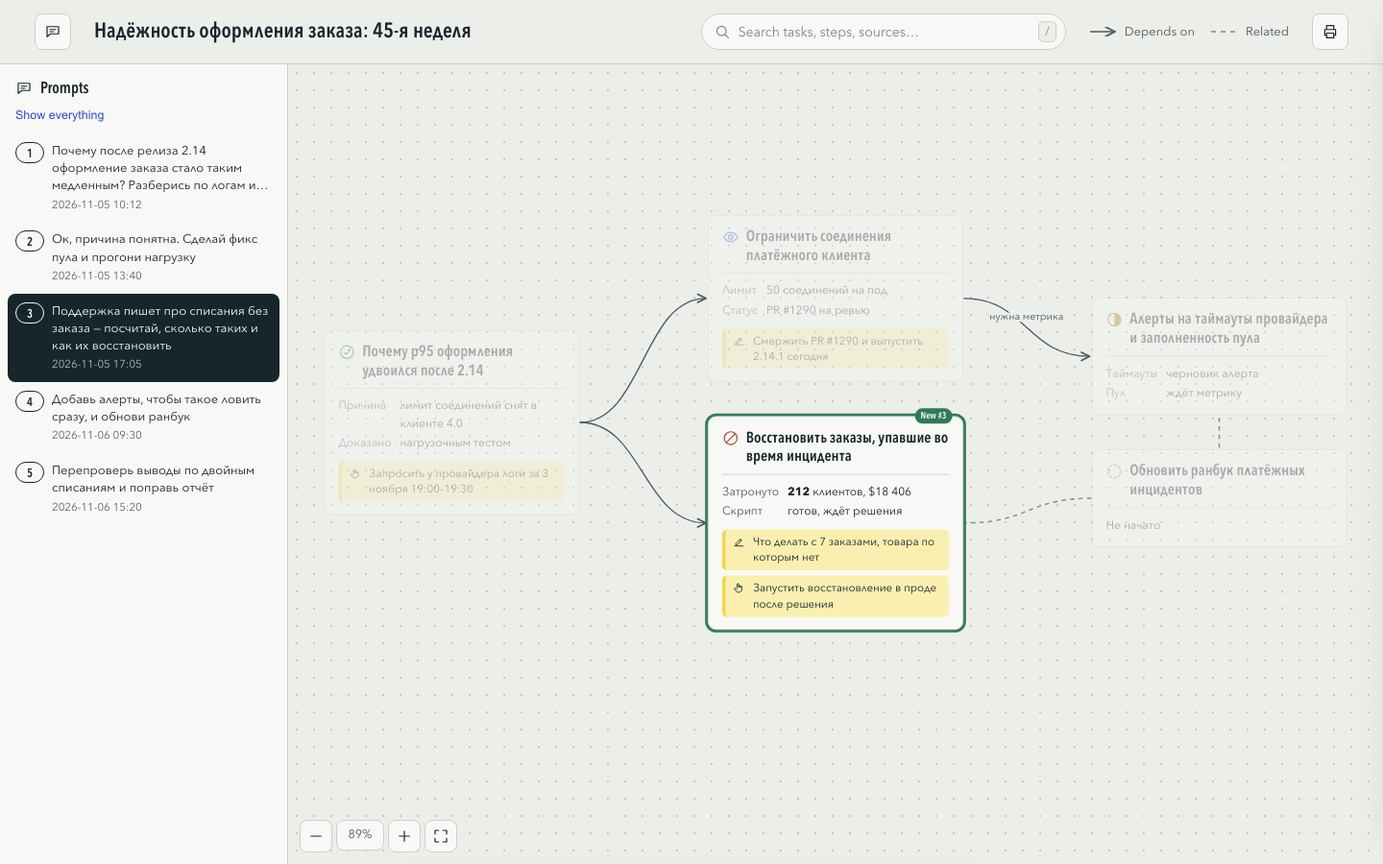
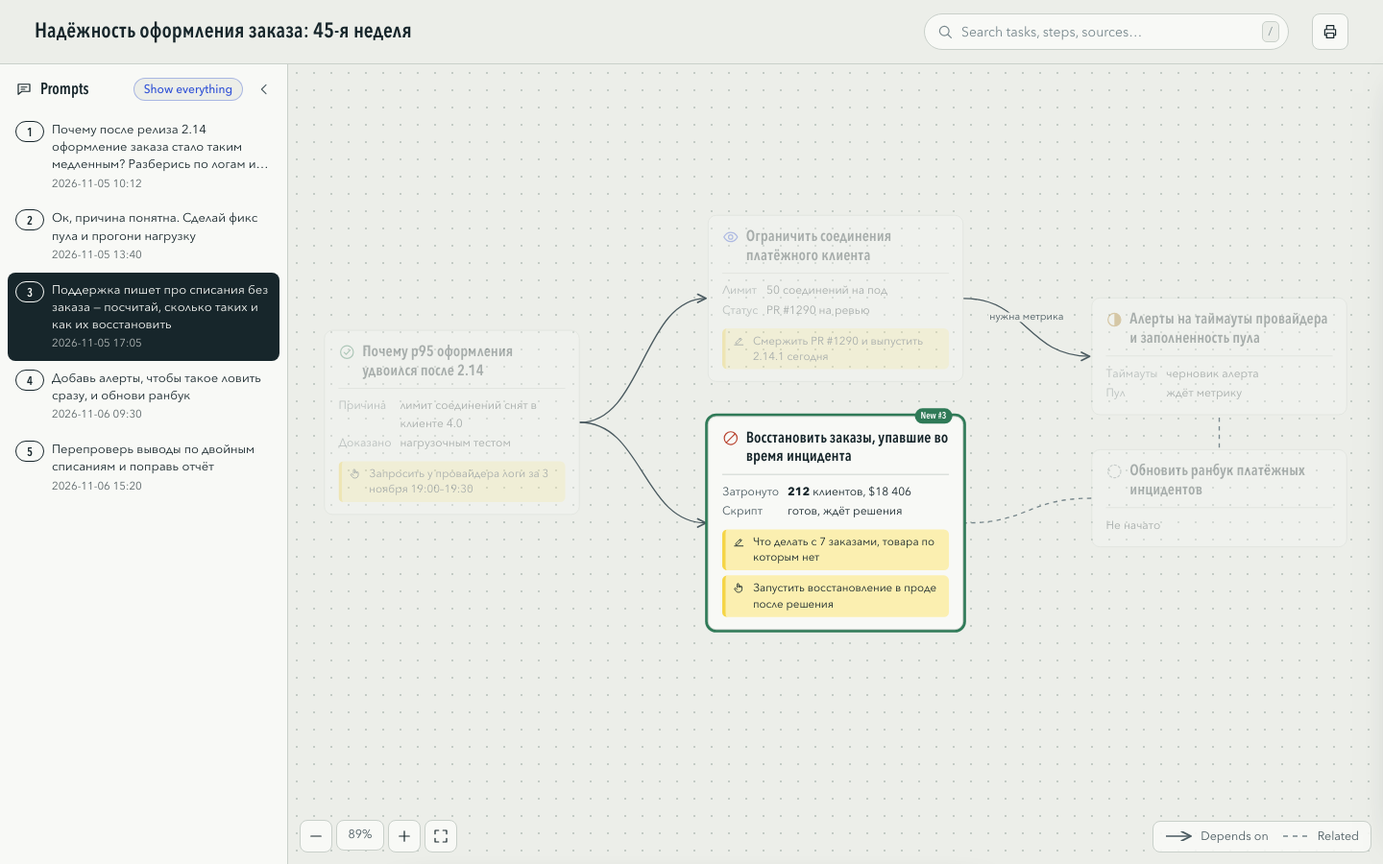
Tidy prompts rail and legend
Show everything sits next to the Prompts title; the rail collapses from its
header and reopens from a tab on the canvas; the edge legend moves onto the
canvas corner.

diff --git a/skills/structured-report/examples/example.ru.html b/skills/structured-report/examples/example.ru.html
@@ -77,7 +77,9 @@ body.map-page{height:100vh;overflow:hidden;display:flex;flex-direction:column}
 .bar{position:relative;z-index:20}
 .bar{display:flex;align-items:center;gap:24px;padding:14px clamp(16px,3vw,36px);border-bottom:1px solid var(--rule)}
 .bar h1{font:600 22px/1.15 var(--display);margin:0;flex:1 1 0;min-width:0;overflow:hidden;text-overflow:ellipsis;white-space:nowrap}
-.legend{display:flex;gap:16px;color:var(--ink-2);font-size:13px;align-items:center}
+.legend{position:absolute;right:12px;bottom:12px;z-index:2;display:flex;gap:14px;align-items:center;color:var(--ink-2);font-size:12.5px;
+  padding:6px 12px;border-radius:8px;background:rgba(248,249,246,.88);border:1px solid var(--rule);pointer-events:none}
+#map .minimap{bottom:52px}
 .legend span{display:inline-flex;align-items:center;gap:7px}
 .legend svg.line{width:30px;height:10px}
 #map{flex:1;min-width:0}
@@ -125,8 +127,18 @@ body.map-page{height:100vh;overflow:hidden;display:flex;flex-direction:column}
 /* ── prompts rail: the conversation that produced the report ── */
 .page{flex:1;display:flex;min-height:0}
 .rail{width:300px;flex:none;border-right:1px solid var(--rule);display:flex;flex-direction:column;background:var(--panel);transition:margin-left .25s cubic-bezier(.2,.7,.2,1)}
-.rail.closed{margin-left:-300px}
-.rail h2{font:600 16px var(--display);margin:0;padding:14px 16px 10px;display:flex;align-items:center;gap:8px}
+.rail.closed{margin-left:-301px}
+.rail-head{display:flex;align-items:center;gap:8px;padding:12px 10px 10px 16px}
+.rail h2{font:600 16px var(--display);margin:0;display:flex;align-items:center;gap:8px;flex:1}
+.rail-x{all:unset;cursor:pointer;width:28px;height:28px;display:grid;place-items:center;border-radius:7px;color:var(--ink-2)}
+.rail-x:hover{background:var(--panel-2);color:var(--ink)} .rail-x:focus-visible{outline:2px solid var(--cobalt)}
+.rail-x .icon{width:16px;height:16px}
+.rail-tab{position:absolute;left:12px;top:12px;z-index:3;display:none;align-items:center;gap:7px;cursor:pointer;font:500 13px var(--text);color:var(--ink);
+  padding:6px 8px 6px 10px;border-radius:9px;background:var(--panel);border:1px solid var(--rule);box-shadow:0 6px 16px -12px rgba(23,38,43,.6)}
+.rail-tab:hover{border-color:var(--ink-3)} .rail-tab:focus-visible{outline:2px solid var(--cobalt)}
+.rail-tab .icon{width:16px;height:16px}
+.rail-tab .cnt{font:600 11px/18px var(--display);min-width:20px;padding:0 6px;border-radius:9px;background:var(--ink);color:var(--panel);text-align:center}
+.rail.closed + #map .rail-tab{display:inline-flex}
 .rail ol{list-style:none;margin:0;padding:0 8px 16px;overflow:auto;flex:1}
 .rail li button{all:unset;box-sizing:border-box;cursor:pointer;display:grid;grid-template-columns:30px 1fr;gap:8px;width:100%;padding:9px 8px;border-radius:8px}
 .rail li button:hover{background:var(--panel-2)}
@@ -135,7 +147,8 @@ body.map-page{height:100vh;overflow:hidden;display:flex;flex-direction:column}
 .rail .pt{font-size:13px;line-height:1.4;display:-webkit-box;-webkit-line-clamp:3;-webkit-box-orient:vertical;overflow:hidden}
 .rail .pa{font-size:11.5px;opacity:.7;margin-top:2px;display:flex;gap:6px;align-items:center}
 .rail .pa .icon{width:13px;height:13px}
-.rail .clear{margin:0 16px 12px;font-size:12.5px;color:var(--cobalt);background:none;border:0;cursor:pointer;text-align:left;padding:0}
+.rail .clear{font:500 12px var(--text);color:var(--cobalt);background:var(--paper);border:1px solid rgba(45,79,214,.35);border-radius:999px;cursor:pointer;padding:3px 10px;white-space:nowrap}
+.rail .clear:hover{background:#fff;border-color:var(--cobalt)}
 .rail .clear[hidden]{display:none}
 /* prompt focus: what appeared / changed at the selected prompt */
 body.at-prompt #map .node:not(.p-new):not(.p-changed),body.at-prompt .stage:not(.p-new):not(.p-changed){opacity:.32}
@@ -290,11 +303,11 @@ a.ref-chip:hover{border-color:var(--cobalt);color:var(--cobalt)}
 .copy:focus-visible{outline:2px solid var(--cobalt)}
 
 .reports{display:none}
-@media (max-width:760px){.rail{position:absolute;z-index:30;height:calc(100% - 66px)} .search{flex-basis:200px} .search:focus-within{flex-basis:100%} .legend span{display:none} .report{padding:0 16px 48px} .r-head{padding-right:120px} .flow .canvas{height:380px}}
+@media (max-width:760px){.legend{display:none} .rail{position:absolute;z-index:30;height:calc(100% - 66px)} .search{flex-basis:200px} .search:focus-within{flex-basis:100%} .legend span{display:none} .report{padding:0 16px 48px} .r-head{padding-right:120px} .flow .canvas{height:380px}}
 @media (prefers-reduced-motion:reduce){*{transition:none!important}}
 @media print{
   body.map-page{height:auto;overflow:visible;display:block;background:#fff}
-  #map,.legend,.drawer,.scrim,#print-btn,.zoom,.minimap,.search,.rail,.sendbar,.answer,#rail-btn{display:none!important}
+  #map,.drawer,.scrim,#print-btn,.zoom,.minimap,.search,.rail,.sendbar,.answer{display:none!important}
   .reports{display:block!important}
   .reports .report{break-before:page;padding:0}
   .reports .r-head{position:static;padding-right:0}
@@ -351,7 +364,6 @@ a.ref-chip:hover{border-color:var(--cobalt);color:var(--cobalt)}
 
 <!-- ═══ Page 1 — Work map ═══════════════════════════════════════════════════ -->
 <header class="bar">
-  <button class="iconbtn" id="rail-btn" title="Prompts of the session" aria-label="Prompts of the session" aria-expanded="true"><svg class="icon"><use href="#i-prompts"/></svg></button>
   <h1>Надёжность оформления заказа: 45-я неделя</h1>
   <div class="search" role="search">
     <svg class="icon"><use href="#i-search"/></svg>
@@ -359,18 +371,16 @@ a.ref-chip:hover{border-color:var(--cobalt);color:var(--cobalt)}
     <kbd>/</kbd>
     <div class="results" id="results" role="listbox" aria-label="Search results"></div>
   </div>
-  <div class="legend">
-    <span><svg class="line" viewBox="0 0 30 10"><path d="M1 5h26" stroke="#4A5A60" stroke-width="1.5" marker-end="url(#arrow)"/></svg>Depends on</span>
-    <span><svg class="line" viewBox="0 0 30 10"><path d="M1 5h28" stroke="#77878C" stroke-width="1.5" stroke-dasharray="5 5"/></svg>Related</span>
-    
-  </div>
   <button class="iconbtn" id="print-btn" title="Print all tasks" aria-label="Print all tasks"><svg class="icon"><use href="#i-print"/></svg></button>
 </header>
 
 <div class="page">
 <aside class="rail" id="rail" aria-label="Prompts of the session">
-  <h2><svg class="icon"><use href="#i-prompts"/></svg>Prompts</h2>
-  <button class="clear" id="rail-clear" hidden>Show everything</button>
+  <div class="rail-head">
+    <h2><svg class="icon"><use href="#i-prompts"/></svg>Prompts</h2>
+    <button class="clear" id="rail-clear" hidden title="Clear the prompt filter">Show everything</button>
+    <button class="rail-x" id="rail-close" title="Hide prompts" aria-label="Hide prompts" aria-controls="rail"><svg class="icon"><use href="#i-prev"/></svg></button>
+  </div>
   <ol>
     <li><button type="button" data-prompt="p1" aria-pressed="false"><span class="pn">1</span><span><span class="pt">Почему после релиза 2.14 оформление заказа стало таким медленным? Разберись по логам и метрикам</span><span class="pa">2026-11-05 10:12</span></span></button></li>
     <li><button type="button" data-prompt="p2" aria-pressed="false"><span class="pn">2</span><span><span class="pt">Ок, причина понятна. Сделай фикс пула и прогони нагрузку</span><span class="pa">2026-11-05 13:40</span></span></button></li>
@@ -380,6 +390,12 @@ a.ref-chip:hover{border-color:var(--cobalt);color:var(--cobalt)}
   </ol>
 </aside>
 <main class="canvas" id="map" aria-label="Work map" data-dir="LR">
+  <button class="rail-tab" id="rail-open" type="button" aria-controls="rail" aria-expanded="true"><svg class="icon"><use href="#i-prompts"/></svg>Prompts<span class="cnt">5</span></button>
+  <div class="legend" aria-label="Legend">
+    <span><svg class="line" viewBox="0 0 30 10"><path d="M1 5h26" stroke="#4A5A60" stroke-width="1.5" marker-end="url(#arrow)"/></svg>Depends on</span>
+    <span><svg class="line" viewBox="0 0 30 10"><path d="M1 5h28" stroke="#77878C" stroke-width="1.5" stroke-dasharray="5 5"/></svg>Related</span>
+    
+  </div>
   <div class="graph" data-key="map" data-edges="[{&quot;from&quot;: &quot;latency&quot;, &quot;to&quot;: &quot;pool&quot;, &quot;kind&quot;: &quot;depends&quot;, &quot;label&quot;: null}, {&quot;from&quot;: &quot;latency&quot;, &quot;to&quot;: &quot;replay&quot;, &quot;kind&quot;: &quot;depends&quot;, &quot;label&quot;: null}, {&quot;from&quot;: &quot;pool&quot;, &quot;to&quot;: &quot;alerts&quot;, &quot;kind&quot;: &quot;depends&quot;, &quot;label&quot;: &quot;нужна метрика&quot;}, {&quot;from&quot;: &quot;runbook&quot;, &quot;to&quot;: &quot;replay&quot;, &quot;kind&quot;: &quot;related&quot;, &quot;label&quot;: null}, {&quot;from&quot;: &quot;runbook&quot;, &quot;to&quot;: &quot;alerts&quot;, &quot;kind&quot;: &quot;related&quot;, &quot;label&quot;: null}]">
     
     <button class="node" type="button" data-id="latency" data-task="latency" data-block="latency" aria-label="Почему p95 оформления удвоился после 2.14 — Done">
@@ -2354,9 +2370,14 @@ document.addEventListener("click", e => {
   if (gp) { if (rail?.classList.contains("closed")) toggleRail(); if (atPrompt !== gp.dataset.goprompt) selectPrompt(gp.dataset.goprompt);
     $(`[data-prompt="${gp.dataset.goprompt}"]`)?.scrollIntoView({block: "nearest"}); return; }
   if (e.target.closest("#rail-clear")) return selectPrompt(atPrompt);
-  if (e.target.closest("#rail-btn")) toggleRail();
+  if (e.target.closest("#rail-close,#rail-open")) toggleRail(e.detail === 0);
 });
-function toggleRail() { rail.classList.toggle("closed"); $("#rail-btn").setAttribute("aria-expanded", String(!rail.classList.contains("closed"))); setTimeout(() => mapCanvas.apply(), 280); }
+function toggleRail(byKeyboard) {
+  const closed = rail.classList.toggle("closed");
+  $("#rail-open").setAttribute("aria-expanded", String(!closed));
+  if (byKeyboard) (closed ? $("#rail-open") : $("#rail-close")).focus({preventScroll: true});
+  setTimeout(() => mapCanvas.apply(), 280);
+}
 const _open = open;
 open = function (key, o) { _open(key, o); const a = art(key); if (a) { stamps(a); paint(a); } };
 

diff --git a/skills/structured-report/assets/template.html b/skills/structured-report/assets/template.html
@@ -77,7 +77,9 @@ body.map-page{height:100vh;overflow:hidden;display:flex;flex-direction:column}
 .bar{position:relative;z-index:20}
 .bar{display:flex;align-items:center;gap:24px;padding:14px clamp(16px,3vw,36px);border-bottom:1px solid var(--rule)}
 .bar h1{font:600 22px/1.15 var(--display);margin:0;flex:1 1 0;min-width:0;overflow:hidden;text-overflow:ellipsis;white-space:nowrap}
-.legend{display:flex;gap:16px;color:var(--ink-2);font-size:13px;align-items:center}
+.legend{position:absolute;right:12px;bottom:12px;z-index:2;display:flex;gap:14px;align-items:center;color:var(--ink-2);font-size:12.5px;
+  padding:6px 12px;border-radius:8px;background:rgba(248,249,246,.88);border:1px solid var(--rule);pointer-events:none}
+#map .minimap{bottom:52px}
 .legend span{display:inline-flex;align-items:center;gap:7px}
 .legend svg.line{width:30px;height:10px}
 #map{flex:1;min-width:0}
@@ -125,8 +127,18 @@ body.map-page{height:100vh;overflow:hidden;display:flex;flex-direction:column}
 /* ── prompts rail: the conversation that produced the report ── */
 .page{flex:1;display:flex;min-height:0}
 .rail{width:300px;flex:none;border-right:1px solid var(--rule);display:flex;flex-direction:column;background:var(--panel);transition:margin-left .25s cubic-bezier(.2,.7,.2,1)}
-.rail.closed{margin-left:-300px}
-.rail h2{font:600 16px var(--display);margin:0;padding:14px 16px 10px;display:flex;align-items:center;gap:8px}
+.rail.closed{margin-left:-301px}
+.rail-head{display:flex;align-items:center;gap:8px;padding:12px 10px 10px 16px}
+.rail h2{font:600 16px var(--display);margin:0;display:flex;align-items:center;gap:8px;flex:1}
+.rail-x{all:unset;cursor:pointer;width:28px;height:28px;display:grid;place-items:center;border-radius:7px;color:var(--ink-2)}
+.rail-x:hover{background:var(--panel-2);color:var(--ink)} .rail-x:focus-visible{outline:2px solid var(--cobalt)}
+.rail-x .icon{width:16px;height:16px}
+.rail-tab{position:absolute;left:12px;top:12px;z-index:3;display:none;align-items:center;gap:7px;cursor:pointer;font:500 13px var(--text);color:var(--ink);
+  padding:6px 8px 6px 10px;border-radius:9px;background:var(--panel);border:1px solid var(--rule);box-shadow:0 6px 16px -12px rgba(23,38,43,.6)}
+.rail-tab:hover{border-color:var(--ink-3)} .rail-tab:focus-visible{outline:2px solid var(--cobalt)}
+.rail-tab .icon{width:16px;height:16px}
+.rail-tab .cnt{font:600 11px/18px var(--display);min-width:20px;padding:0 6px;border-radius:9px;background:var(--ink);color:var(--panel);text-align:center}
+.rail.closed + #map .rail-tab{display:inline-flex}
 .rail ol{list-style:none;margin:0;padding:0 8px 16px;overflow:auto;flex:1}
 .rail li button{all:unset;box-sizing:border-box;cursor:pointer;display:grid;grid-template-columns:30px 1fr;gap:8px;width:100%;padding:9px 8px;border-radius:8px}
 .rail li button:hover{background:var(--panel-2)}
@@ -135,7 +147,8 @@ body.map-page{height:100vh;overflow:hidden;display:flex;flex-direction:column}
 .rail .pt{font-size:13px;line-height:1.4;display:-webkit-box;-webkit-line-clamp:3;-webkit-box-orient:vertical;overflow:hidden}
 .rail .pa{font-size:11.5px;opacity:.7;margin-top:2px;display:flex;gap:6px;align-items:center}
 .rail .pa .icon{width:13px;height:13px}
-.rail .clear{margin:0 16px 12px;font-size:12.5px;color:var(--cobalt);background:none;border:0;cursor:pointer;text-align:left;padding:0}
+.rail .clear{font:500 12px var(--text);color:var(--cobalt);background:var(--paper);border:1px solid rgba(45,79,214,.35);border-radius:999px;cursor:pointer;padding:3px 10px;white-space:nowrap}
+.rail .clear:hover{background:#fff;border-color:var(--cobalt)}
 .rail .clear[hidden]{display:none}
 /* prompt focus: what appeared / changed at the selected prompt */
 body.at-prompt #map .node:not(.p-new):not(.p-changed),body.at-prompt .stage:not(.p-new):not(.p-changed){opacity:.32}
@@ -290,11 +303,11 @@ a.ref-chip:hover{border-color:var(--cobalt);color:var(--cobalt)}
 .copy:focus-visible{outline:2px solid var(--cobalt)}
 
 .reports{display:none}
-@media (max-width:760px){.rail{position:absolute;z-index:30;height:calc(100% - 66px)} .search{flex-basis:200px} .search:focus-within{flex-basis:100%} .legend span{display:none} .report{padding:0 16px 48px} .r-head{padding-right:120px} .flow .canvas{height:380px}}
+@media (max-width:760px){.legend{display:none} .rail{position:absolute;z-index:30;height:calc(100% - 66px)} .search{flex-basis:200px} .search:focus-within{flex-basis:100%} .legend span{display:none} .report{padding:0 16px 48px} .r-head{padding-right:120px} .flow .canvas{height:380px}}
 @media (prefers-reduced-motion:reduce){*{transition:none!important}}
 @media print{
   body.map-page{height:auto;overflow:visible;display:block;background:#fff}
-  #map,.legend,.drawer,.scrim,#print-btn,.zoom,.minimap,.search,.rail,.sendbar,.answer,#rail-btn{display:none!important}
+  #map,.drawer,.scrim,#print-btn,.zoom,.minimap,.search,.rail,.sendbar,.answer{display:none!important}
   .reports{display:block!important}
   .reports .report{break-before:page;padding:0}
   .reports .r-head{position:static;padding-right:0}
@@ -351,7 +364,6 @@ a.ref-chip:hover{border-color:var(--cobalt);color:var(--cobalt)}
 
 <!-- ═══ Page 1 — Work map ═══════════════════════════════════════════════════ -->
 <header class="bar">
-  {{#prompts?}}<button class="iconbtn" id="rail-btn" title="Prompts of the session" aria-label="Prompts of the session" aria-expanded="true"><svg class="icon"><use href="#i-prompts"/></svg></button>{{/prompts?}}
   <h1>{{meta.title}}</h1>
   <div class="search" role="search">
     <svg class="icon"><use href="#i-search"/></svg>
@@ -359,23 +371,27 @@ a.ref-chip:hover{border-color:var(--cobalt);color:var(--cobalt)}
     <kbd>/</kbd>
     <div class="results" id="results" role="listbox" aria-label="Search results"></div>
   </div>
-  <div class="legend">
-    <span><svg class="line" viewBox="0 0 30 10"><path d="M1 5h26" stroke="#4A5A60" stroke-width="1.5" marker-end="url(#arrow)"/></svg>Depends on</span>
-    <span><svg class="line" viewBox="0 0 30 10"><path d="M1 5h28" stroke="#77878C" stroke-width="1.5" stroke-dasharray="5 5"/></svg>Related</span>
-    {{#has_blocks}}<span><svg class="line" viewBox="0 0 30 10"><path d="M1 5h26" stroke="#B8432F" stroke-width="1.5" marker-end="url(#arrow-bad)"/></svg>Blocks</span>{{/has_blocks}}
-  </div>
   <button class="iconbtn" id="print-btn" title="Print all tasks" aria-label="Print all tasks"><svg class="icon"><use href="#i-print"/></svg></button>
 </header>
 
 <div class="page">
 {{#prompts?}}<aside class="rail" id="rail" aria-label="Prompts of the session">
-  <h2><svg class="icon"><use href="#i-prompts"/></svg>Prompts</h2>
-  <button class="clear" id="rail-clear" hidden>Show everything</button>
+  <div class="rail-head">
+    <h2><svg class="icon"><use href="#i-prompts"/></svg>Prompts</h2>
+    <button class="clear" id="rail-clear" hidden title="Clear the prompt filter">Show everything</button>
+    <button class="rail-x" id="rail-close" title="Hide prompts" aria-label="Hide prompts" aria-controls="rail"><svg class="icon"><use href="#i-prev"/></svg></button>
+  </div>
   <ol>{{#prompts}}
     <li><button type="button" data-prompt="{{id}}" aria-pressed="false"><span class="pn">{{n}}</span><span><span class="pt">{{text}}</span><span class="pa">{{#answer}}<svg class="icon"><use href="#i-answer"/></svg>Answered in the report · {{/answer}}{{at}}</span></span></button></li>{{/prompts}}
   </ol>
 </aside>{{/prompts?}}
 <main class="canvas" id="map" aria-label="Work map" data-dir="LR">
+  {{#prompts?}}<button class="rail-tab" id="rail-open" type="button" aria-controls="rail" aria-expanded="true"><svg class="icon"><use href="#i-prompts"/></svg>Prompts<span class="cnt">{{prompt_count}}</span></button>{{/prompts?}}
+  <div class="legend" aria-label="Legend">
+    <span><svg class="line" viewBox="0 0 30 10"><path d="M1 5h26" stroke="#4A5A60" stroke-width="1.5" marker-end="url(#arrow)"/></svg>Depends on</span>
+    <span><svg class="line" viewBox="0 0 30 10"><path d="M1 5h28" stroke="#77878C" stroke-width="1.5" stroke-dasharray="5 5"/></svg>Related</span>
+    {{#has_blocks}}<span><svg class="line" viewBox="0 0 30 10"><path d="M1 5h26" stroke="#B8432F" stroke-width="1.5" marker-end="url(#arrow-bad)"/></svg>Blocks</span>{{/has_blocks}}
+  </div>
   <div class="graph" data-key="map" data-edges="{{edges|json}}">
     {{#tasks}}
     <button class="node" type="button" data-id="{{id}}" data-task="{{id}}" data-block="{{key}}" aria-label="{{title}} — {{status_label}}">
@@ -929,9 +945,14 @@ document.addEventListener("click", e => {
   if (gp) { if (rail?.classList.contains("closed")) toggleRail(); if (atPrompt !== gp.dataset.goprompt) selectPrompt(gp.dataset.goprompt);
     $(`[data-prompt="${gp.dataset.goprompt}"]`)?.scrollIntoView({block: "nearest"}); return; }
   if (e.target.closest("#rail-clear")) return selectPrompt(atPrompt);
-  if (e.target.closest("#rail-btn")) toggleRail();
+  if (e.target.closest("#rail-close,#rail-open")) toggleRail(e.detail === 0);
 });
-function toggleRail() { rail.classList.toggle("closed"); $("#rail-btn").setAttribute("aria-expanded", String(!rail.classList.contains("closed"))); setTimeout(() => mapCanvas.apply(), 280); }
+function toggleRail(byKeyboard) {
+  const closed = rail.classList.toggle("closed");
+  $("#rail-open").setAttribute("aria-expanded", String(!closed));
+  if (byKeyboard) (closed ? $("#rail-open") : $("#rail-close")).focus({preventScroll: true});
+  setTimeout(() => mapCanvas.apply(), 280);
+}
 const _open = open;
 open = function (key, o) { _open(key, o); const a = art(key); if (a) { stamps(a); paint(a); } };
 

diff --git a/skills/structured-report/examples/example.html b/skills/structured-report/examples/example.html
@@ -77,7 +77,9 @@ body.map-page{height:100vh;overflow:hidden;display:flex;flex-direction:column}
 .bar{position:relative;z-index:20}
 .bar{display:flex;align-items:center;gap:24px;padding:14px clamp(16px,3vw,36px);border-bottom:1px solid var(--rule)}
 .bar h1{font:600 22px/1.15 var(--display);margin:0;flex:1 1 0;min-width:0;overflow:hidden;text-overflow:ellipsis;white-space:nowrap}
-.legend{display:flex;gap:16px;color:var(--ink-2);font-size:13px;align-items:center}
+.legend{position:absolute;right:12px;bottom:12px;z-index:2;display:flex;gap:14px;align-items:center;color:var(--ink-2);font-size:12.5px;
+  padding:6px 12px;border-radius:8px;background:rgba(248,249,246,.88);border:1px solid var(--rule);pointer-events:none}
+#map .minimap{bottom:52px}
 .legend span{display:inline-flex;align-items:center;gap:7px}
 .legend svg.line{width:30px;height:10px}
 #map{flex:1;min-width:0}
@@ -125,8 +127,18 @@ body.map-page{height:100vh;overflow:hidden;display:flex;flex-direction:column}
 /* ── prompts rail: the conversation that produced the report ── */
 .page{flex:1;display:flex;min-height:0}
 .rail{width:300px;flex:none;border-right:1px solid var(--rule);display:flex;flex-direction:column;background:var(--panel);transition:margin-left .25s cubic-bezier(.2,.7,.2,1)}
-.rail.closed{margin-left:-300px}
-.rail h2{font:600 16px var(--display);margin:0;padding:14px 16px 10px;display:flex;align-items:center;gap:8px}
+.rail.closed{margin-left:-301px}
+.rail-head{display:flex;align-items:center;gap:8px;padding:12px 10px 10px 16px}
+.rail h2{font:600 16px var(--display);margin:0;display:flex;align-items:center;gap:8px;flex:1}
+.rail-x{all:unset;cursor:pointer;width:28px;height:28px;display:grid;place-items:center;border-radius:7px;color:var(--ink-2)}
+.rail-x:hover{background:var(--panel-2);color:var(--ink)} .rail-x:focus-visible{outline:2px solid var(--cobalt)}
+.rail-x .icon{width:16px;height:16px}
+.rail-tab{position:absolute;left:12px;top:12px;z-index:3;display:none;align-items:center;gap:7px;cursor:pointer;font:500 13px var(--text);color:var(--ink);
+  padding:6px 8px 6px 10px;border-radius:9px;background:var(--panel);border:1px solid var(--rule);box-shadow:0 6px 16px -12px rgba(23,38,43,.6)}
+.rail-tab:hover{border-color:var(--ink-3)} .rail-tab:focus-visible{outline:2px solid var(--cobalt)}
+.rail-tab .icon{width:16px;height:16px}
+.rail-tab .cnt{font:600 11px/18px var(--display);min-width:20px;padding:0 6px;border-radius:9px;background:var(--ink);color:var(--panel);text-align:center}
+.rail.closed + #map .rail-tab{display:inline-flex}
 .rail ol{list-style:none;margin:0;padding:0 8px 16px;overflow:auto;flex:1}
 .rail li button{all:unset;box-sizing:border-box;cursor:pointer;display:grid;grid-template-columns:30px 1fr;gap:8px;width:100%;padding:9px 8px;border-radius:8px}
 .rail li button:hover{background:var(--panel-2)}
@@ -135,7 +147,8 @@ body.map-page{height:100vh;overflow:hidden;display:flex;flex-direction:column}
 .rail .pt{font-size:13px;line-height:1.4;display:-webkit-box;-webkit-line-clamp:3;-webkit-box-orient:vertical;overflow:hidden}
 .rail .pa{font-size:11.5px;opacity:.7;margin-top:2px;display:flex;gap:6px;align-items:center}
 .rail .pa .icon{width:13px;height:13px}
-.rail .clear{margin:0 16px 12px;font-size:12.5px;color:var(--cobalt);background:none;border:0;cursor:pointer;text-align:left;padding:0}
+.rail .clear{font:500 12px var(--text);color:var(--cobalt);background:var(--paper);border:1px solid rgba(45,79,214,.35);border-radius:999px;cursor:pointer;padding:3px 10px;white-space:nowrap}
+.rail .clear:hover{background:#fff;border-color:var(--cobalt)}
 .rail .clear[hidden]{display:none}
 /* prompt focus: what appeared / changed at the selected prompt */
 body.at-prompt #map .node:not(.p-new):not(.p-changed),body.at-prompt .stage:not(.p-new):not(.p-changed){opacity:.32}
@@ -290,11 +303,11 @@ a.ref-chip:hover{border-color:var(--cobalt);color:var(--cobalt)}
 .copy:focus-visible{outline:2px solid var(--cobalt)}
 
 .reports{display:none}
-@media (max-width:760px){.rail{position:absolute;z-index:30;height:calc(100% - 66px)} .search{flex-basis:200px} .search:focus-within{flex-basis:100%} .legend span{display:none} .report{padding:0 16px 48px} .r-head{padding-right:120px} .flow .canvas{height:380px}}
+@media (max-width:760px){.legend{display:none} .rail{position:absolute;z-index:30;height:calc(100% - 66px)} .search{flex-basis:200px} .search:focus-within{flex-basis:100%} .legend span{display:none} .report{padding:0 16px 48px} .r-head{padding-right:120px} .flow .canvas{height:380px}}
 @media (prefers-reduced-motion:reduce){*{transition:none!important}}
 @media print{
   body.map-page{height:auto;overflow:visible;display:block;background:#fff}
-  #map,.legend,.drawer,.scrim,#print-btn,.zoom,.minimap,.search,.rail,.sendbar,.answer,#rail-btn{display:none!important}
+  #map,.drawer,.scrim,#print-btn,.zoom,.minimap,.search,.rail,.sendbar,.answer{display:none!important}
   .reports{display:block!important}
   .reports .report{break-before:page;padding:0}
   .reports .r-head{position:static;padding-right:0}
@@ -351,7 +364,6 @@ a.ref-chip:hover{border-color:var(--cobalt);color:var(--cobalt)}
 
 <!-- ═══ Page 1 — Work map ═══════════════════════════════════════════════════ -->
 <header class="bar">
-  
   <h1>Checkout reliability: week 45</h1>
   <div class="search" role="search">
     <svg class="icon"><use href="#i-search"/></svg>
@@ -359,17 +371,18 @@ a.ref-chip:hover{border-color:var(--cobalt);color:var(--cobalt)}
     <kbd>/</kbd>
     <div class="results" id="results" role="listbox" aria-label="Search results"></div>
   </div>
-  <div class="legend">
-    <span><svg class="line" viewBox="0 0 30 10"><path d="M1 5h26" stroke="#4A5A60" stroke-width="1.5" marker-end="url(#arrow)"/></svg>Depends on</span>
-    <span><svg class="line" viewBox="0 0 30 10"><path d="M1 5h28" stroke="#77878C" stroke-width="1.5" stroke-dasharray="5 5"/></svg>Related</span>
-    
-  </div>
   <button class="iconbtn" id="print-btn" title="Print all tasks" aria-label="Print all tasks"><svg class="icon"><use href="#i-print"/></svg></button>
 </header>
 
 <div class="page">
 
 <main class="canvas" id="map" aria-label="Work map" data-dir="LR">
+  
+  <div class="legend" aria-label="Legend">
+    <span><svg class="line" viewBox="0 0 30 10"><path d="M1 5h26" stroke="#4A5A60" stroke-width="1.5" marker-end="url(#arrow)"/></svg>Depends on</span>
+    <span><svg class="line" viewBox="0 0 30 10"><path d="M1 5h28" stroke="#77878C" stroke-width="1.5" stroke-dasharray="5 5"/></svg>Related</span>
+    
+  </div>
   <div class="graph" data-key="map" data-edges="[{&quot;from&quot;: &quot;latency&quot;, &quot;to&quot;: &quot;pool&quot;, &quot;kind&quot;: &quot;depends&quot;, &quot;label&quot;: null}, {&quot;from&quot;: &quot;latency&quot;, &quot;to&quot;: &quot;replay&quot;, &quot;kind&quot;: &quot;depends&quot;, &quot;label&quot;: null}, {&quot;from&quot;: &quot;pool&quot;, &quot;to&quot;: &quot;alerts&quot;, &quot;kind&quot;: &quot;depends&quot;, &quot;label&quot;: &quot;needs the metric&quot;}, {&quot;from&quot;: &quot;runbook&quot;, &quot;to&quot;: &quot;replay&quot;, &quot;kind&quot;: &quot;related&quot;, &quot;label&quot;: null}, {&quot;from&quot;: &quot;runbook&quot;, &quot;to&quot;: &quot;alerts&quot;, &quot;kind&quot;: &quot;related&quot;, &quot;label&quot;: null}]">
     
     <button class="node" type="button" data-id="latency" data-task="latency" data-block="latency" aria-label="Find why checkout p95 doubled after 2.14 — Done">
@@ -2344,9 +2357,14 @@ document.addEventListener("click", e => {
   if (gp) { if (rail?.classList.contains("closed")) toggleRail(); if (atPrompt !== gp.dataset.goprompt) selectPrompt(gp.dataset.goprompt);
     $(`[data-prompt="${gp.dataset.goprompt}"]`)?.scrollIntoView({block: "nearest"}); return; }
   if (e.target.closest("#rail-clear")) return selectPrompt(atPrompt);
-  if (e.target.closest("#rail-btn")) toggleRail();
+  if (e.target.closest("#rail-close,#rail-open")) toggleRail(e.detail === 0);
 });
-function toggleRail() { rail.classList.toggle("closed"); $("#rail-btn").setAttribute("aria-expanded", String(!rail.classList.contains("closed"))); setTimeout(() => mapCanvas.apply(), 280); }
+function toggleRail(byKeyboard) {
+  const closed = rail.classList.toggle("closed");
+  $("#rail-open").setAttribute("aria-expanded", String(!closed));
+  if (byKeyboard) (closed ? $("#rail-open") : $("#rail-close")).focus({preventScroll: true});
+  setTimeout(() => mapCanvas.apply(), 280);
+}
 const _open = open;
 open = function (key, o) { _open(key, o); const a = art(key); if (a) { stamps(a); paint(a); } };
 

diff --git a/skills/structured-report/scripts/build.py b/skills/structured-report/scripts/build.py
@@ -500,6 +500,7 @@ def view(d, journal=None):
     v["index"] = search_index(reports)
     j = journal or {}
     v["prompts"] = [dict(p, text=redact_text(p.get("text", "")), answer=p.get("kind") == "answer") for p in j.get("prompts", [])]
+    v["prompt_count"] = len(v["prompts"])
     v["track"] = {"prompts": [{"id": p["id"], "n": p["n"]} for p in j.get("prompts", [])], "blocks": {k: {"since": b.get("since"), "changed": b.get("changed", [])} for k, b in j.get("blocks", {}).items()}}
     return v
 
